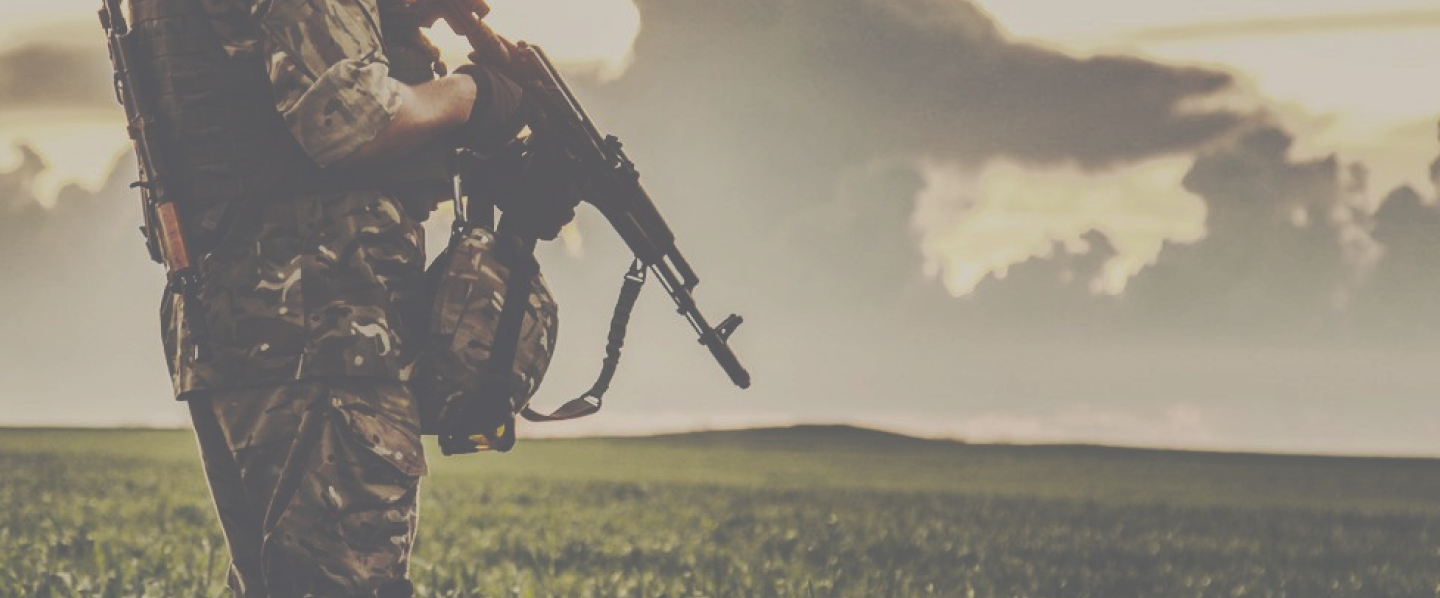
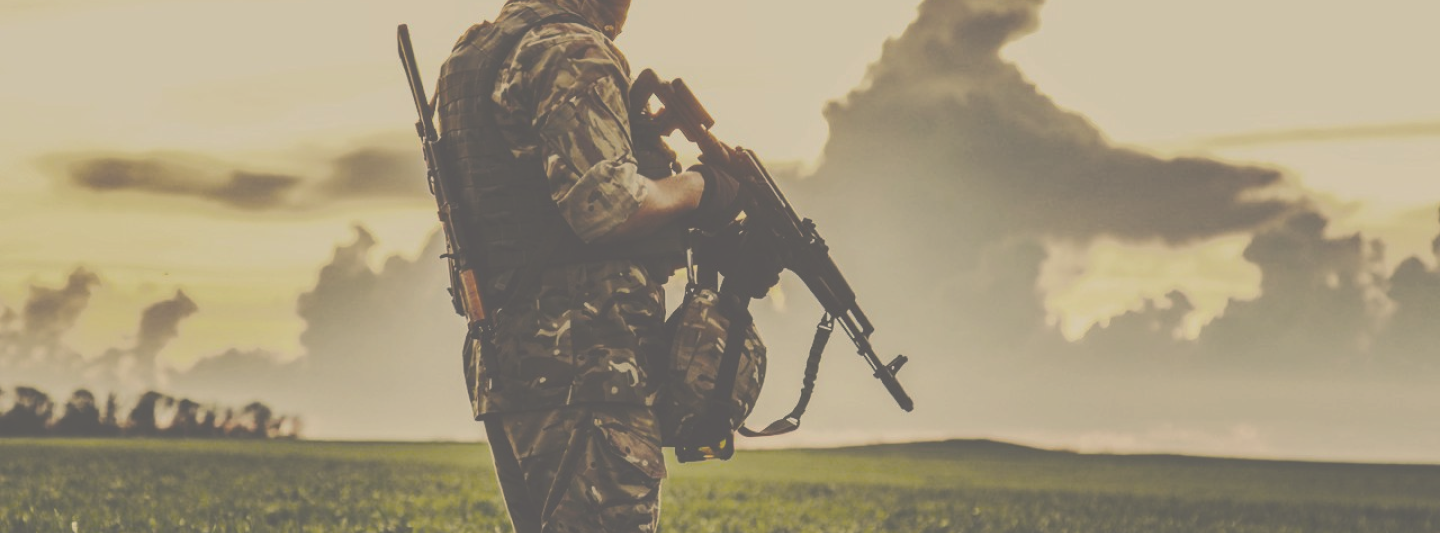
new version

diff --git a/src/main/resources/static/index.html b/src/main/resources/static/index.html
@@ -18,8 +18,8 @@
 
 <body class="wrapper">
     <!-- Header -->
-    <header class="header-container background-blur">
-        <img src="./images/hj-tjmsteo4 1.png" class="header-img">
+    <header id="header-container" >
+        <img src="./images/hj-tjmsteo4 1.png" id="header-img">
         <p class="page-name">Volunteer.ua</p>
         <nav class="row">
             <!-- <p class="page-name">Volunteer.ua</p> -->
@@ -69,23 +69,22 @@
         </div>
         <!-- Fonds -->
         <div class="space">
-            <h2 class="famous">Найвідоміші благодійні фонди України</h2>
+            <h2 class="famous">Найвідоміші благодійні фонди України:</h2>
         </div>
-        <div class="row-slider">
-            <div class="column">
-              <img src="./images/drones.png" alt="Drones foe Ukraine" style="height: 258px; width: 295px;">
+        <div class="row-slider" style="text-align: center;">
+            <div class="column"   >
+              <a href="https://savelife.in.ua/"><img  src="./images/Повернисьживим.png" alt="Повернись живим" style="height: 200px; width: 200px;"></a>
             </div>
             <div class="column">
-              <img src="./images/kse.jpeg" alt="KSE"  style="height: 258px; width: 295px;">
+              <a href="https://u24.gov.ua/uk"><img src="./images/u.png" alt="Юнайтед24" style="height: 200px; width: 200px;"></a>
             </div>
             <div class="column">
-              <img src="./images/зграя2.png" alt="Зграя"  style="height: 258px; width: 295px;">
+              <a href="https://www.razomforukraine.org/ua/homeua/"><img src="./images/Razom.png" alt="Разом" style="height: 200px; width: 200px;"></a>
             </div>
             <div class="column">
-                <img src="./images/км.png" alt="Mountains" style="height: 258px; width: 295px;">
+                <a href="https://prytulafoundation.org/"><img src="./images/SergPr.png" alt="Фонд Сергія Притули" style="height: 200px; width: 200px;"></a>
             </div>
           </div>
-        <div class="space"></div>
     </main>
     <footer class=" container row row-cols-1 row-cols-sm-2 row-cols-md-5 py-5 my-5 border-top"
         style="font-family: Raleway;font-weight: 500; font-size: 20px;">
@@ -101,7 +100,7 @@
             </ul>
         </div>
 
-        <div style="margin: 72px 228 80px 20;">
+        <div style="margin: 72px 0 80px 0;">
             <ul>
                 <li class="contacts-container" style="margin-right: 228px;">
                     <span class="phone-word">Телефон:</span>

diff --git a/src/main/resources/static/css/style.css b/src/main/resources/static/css/style.css
@@ -1,28 +1,29 @@
 body,
 html {
+    position: absolute;
     padding: 0;
     margin: 0;
+    width: 100%;
+    clear: left;
 }
 
 .wrapper {
     position: relative;
-    width: 1440px;
-    height: 2428px;
+    min-width: fit-content;
+    height: 2350px;
     background: #FAFAFA;
     margin: 0px auto;
 }
 
-.header-container {
-    width: 1440px;
-    height: 598px;
-    background-repeat: no-repeat;
-    background-size: cover;
+#header-container {
     position: relative;
-
+    width: fit-content;
 }
 
-.header-img {
-    display: block;
+#header-img {
+    position: relative;
+    width: fit-content;
+    overflow: hidden;
 }
 
 
@@ -230,6 +231,10 @@ border: 1px solid #252525;
 border-radius: 50px;
 }
 
+.row-slider{
+    margin: 0 150px 0 150px;
+}
+
 .column {
     float: left;
     width: 25%;
@@ -244,7 +249,7 @@ border-radius: 50px;
   }
 
 .container {
-    width: 1440px;
+    width: 100%;
     height: 252px;
     left: 0px;
     top: 2176px;
@@ -281,7 +286,7 @@ ul {
 }
 
 .space {
-    margin-bottom: 105px;
+    margin: 100px  70px 50px 30px;
 }
 
 .card {
@@ -338,7 +343,7 @@ top: 318px;
 .all-funds-container {
     margin-top: 24px;
     margin-bottom: 24px;
-    width: 1440px;
+    width: 100%;
     height: 996px;
     left: 0px;
     top: 618px;
